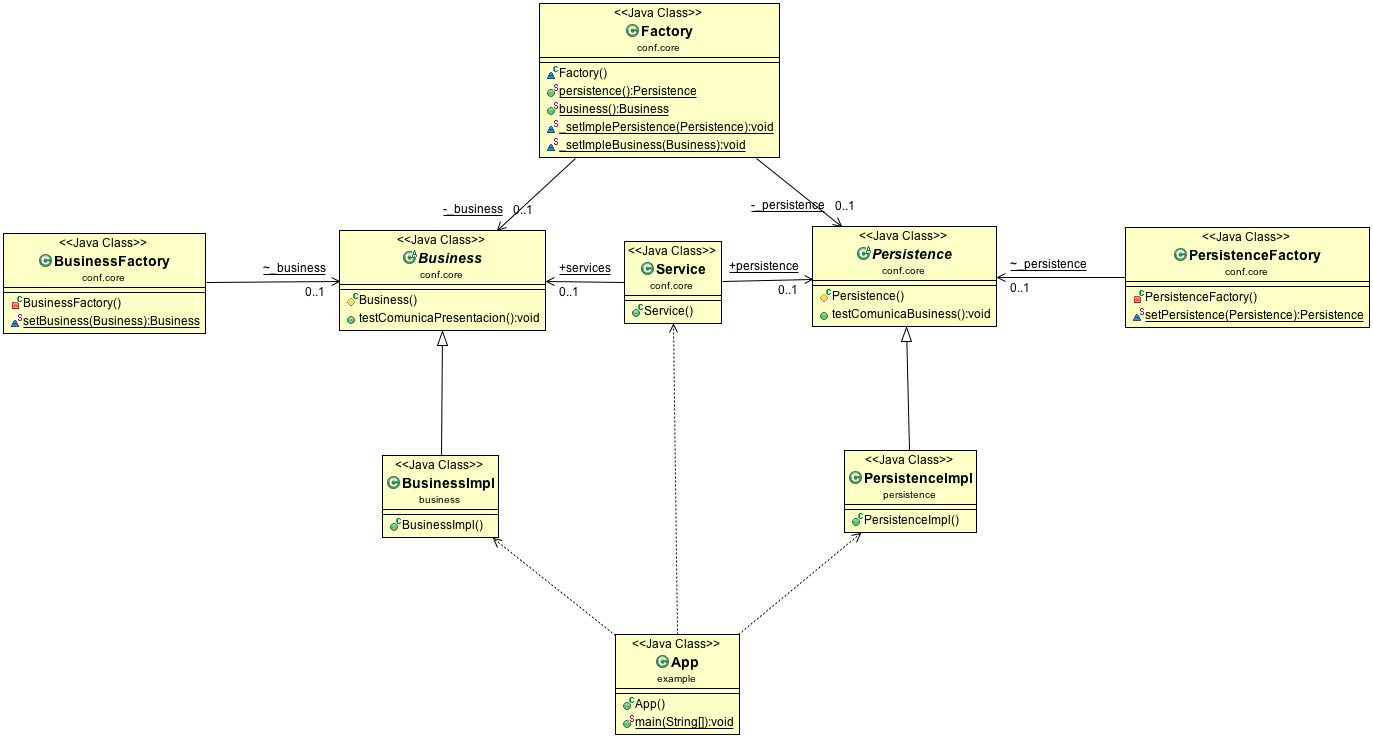
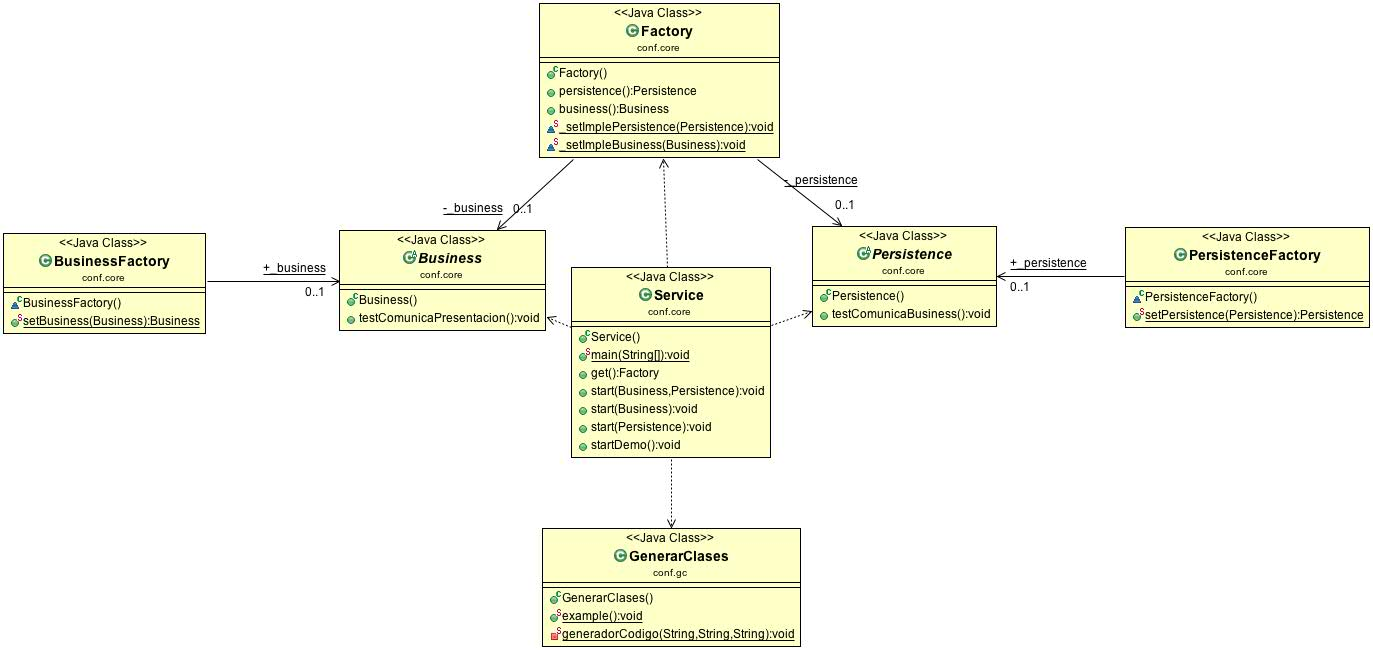
Modificado el ejemplo y las clases que se generan

diff --git a/Arq core/src/conf/gc/GeneradorCodigo.java b/Arq core/src/conf/gc/GeneradorCodigo.java
@@ -1,0 +1,89 @@
+package conf.gc;
+
+import java.io.File;
+import java.io.FileWriter;
+
+import conf.util.BusinessException;
+
+/**
+ * 
+ * GenerarCodigo encargada de generar las clases y paquetes demo
+ * 
+ * @author Francisco Javier Gil Gala
+ *
+ */
+public class GeneradorCodigo {
+
+	/**
+	 * Genera las clases demo BusinessImpl y PersistenceImpl y las guarda en los
+	 * paquetes Business y Persistence respectivamente.
+	 * 
+	 * @throws BusinessException
+	 */
+	public static void generarDemo() throws BusinessException {
+		String businessName = "BusinessImpl.java";
+		String businessBody = 
+				"package business;\n\n"
+				+ "import conf.core.Business;\n"
+				+ "import conf.core.Persistence;\n"
+				+ "import conf.core.Service;\n"
+				+ "import conf.util.BusinessException;\n"
+				+ "import persistence.PersistenceImpl;\n\n"
+				+ "public class BusinessImpl extends Business {\n\n"
+				+ "\t //clase autogenerada" + "\n"
+				+ "\t private PersistenceImpl p;\n\n"
+				+ "\t @Override\n"
+				+ "\t public Persistence getPersistence() throws BusinessException {\n"
+				+ "\t\tif (p == null)\n"
+				+ "\t\t\t p = (PersistenceImpl) new Service().get().persistence();\n"
+				+ "\t\t return p;\n"
+				+ "\t}\n}";
+		String businessUrl = "src/business/";
+		generadorPaquetes(businessUrl);
+		generadorCodigo(businessUrl, businessName, businessBody);
+
+		String persistenceName = "PersistenceImpl.java";
+		String persistenceBody = 
+				"package persistence;\n\n"
+				+ "import conf.core.Persistence;\n\n"
+				+ "public class PersistenceImpl extends Persistence {\n\n"
+				+ "\t //clase autogenerada"
+				+ "\n\n}";
+		String persistenceUrl = "src/persistence/";
+		generadorPaquetes(persistenceUrl);
+		generadorCodigo(persistenceUrl, persistenceName, persistenceBody);
+		System.out.println("Clases de prueba generadas correctamente");
+	}
+
+	/**
+	 * Genera la estructura clásica de paquetes: src.business, src.persistence,
+	 * src.model, src.gui
+	 */
+	public static void generarEstructuraPaquetes() {
+		generadorPaquetes("src/business");
+		generadorPaquetes("src/persistence");
+		generadorPaquetes("src/model");
+		generadorPaquetes("src/gui");
+	}
+
+	private static void generadorPaquetes(String url) {
+		File directorio = new File(url);
+		if (!directorio.exists()) {
+			System.out.println("-> Directorio no existe, generando directorio " + url);
+			directorio.mkdirs();
+		}
+	}
+
+	private static void generadorCodigo(String url, String name, String body) throws BusinessException {
+		try {
+			File archivo = new File(url + name);
+			if (!archivo.exists()) {
+				FileWriter escribir = new FileWriter(archivo, true);
+				escribir.write(body);
+				escribir.close();
+			}
+		} catch (Exception e) {
+			throw new BusinessException("Error al generar el código para la clase " + name);
+		}
+	}
+}

diff --git a/ExampleArqCore/src/business/BusinessImple.java b/ExampleArqCore/src/business/BusinessImple.java
@@ -3,6 +3,7 @@ package business;
 import java.util.List;
 
 import conf.core.Business;
+import conf.core.Persistence;
 import conf.core.Service;
 import conf.util.BusinessException;
 import model.Libro;
@@ -12,20 +13,24 @@ public class BusinessImple extends Business {
 
 	private PersistenceImple p;
 
+	@Override
+	public Persistence getPersistence() throws BusinessException {
+		if (p == null)
+			p = (PersistenceImple) new Service().get().persistence();
+		return p;
+	}
+
 	// se debe refactorizar todo
 	public void añadirLibro(String nombre) throws BusinessException {
-		p = (PersistenceImple) new Service().get().persistence();
-		p.guardarLibro(new Libro(nombre));
+		((PersistenceImple) getPersistence()).guardarLibro(new Libro(nombre));
 	}
 
 	public void borrarLibro(String nombre) throws BusinessException {
-		p = (PersistenceImple) new Service().get().persistence();
-		p.borrarLibro(new Libro(nombre));
+		((PersistenceImple) getPersistence()).borrarLibro(new Libro(nombre));
 	}
 
 	public List<Libro> listaLibros() throws BusinessException {
-		p = (PersistenceImple) new Service().get().persistence();
-		return p.cargarLibros();
+		return ((PersistenceImple) getPersistence()).cargarLibros();
 	}
 
 }

diff --git a/Arq core/src/conf/core/Service.java b/Arq core/src/conf/core/Service.java
@@ -1,6 +1,6 @@
 package conf.core;
 
-import conf.gc.GenerarClases;
+import conf.gc.GeneradorCodigo;
 import conf.util.BusinessException;
 
 /**
@@ -73,14 +73,11 @@ public class Service {
 	 * necesario refrescar el proyecto o volver a compilar para poder seguir con
 	 * la ejecución del programa.
 	 * 
-	 * @throws ClassNotFoundException
-	 * @throws InstantiationException
-	 * @throws IllegalAccessException
 	 * @throws BusinessException
 	 */
 	@SuppressWarnings("unchecked")
 	public void startDemo() throws BusinessException {
-		GenerarClases.example();
+		GeneradorCodigo.generarDemo();
 		Class<Business> business;
 		Class<Persistence> persistence;
 		try {

diff --git a/ExampleArqCore/src/gui/App.java b/ExampleArqCore/src/gui/App.java
@@ -33,8 +33,16 @@ public class App {
 		for (Libro l : libros)
 			System.out.println(l);
 
-		System.out.println("Añadiendo libro d");
+		System.out.println("Añadiendo libro D");
 		b.añadirLibro("D");
+
+		System.out.println("Listado de libros");
+		libros = b.listaLibros();
+		for (Libro l : libros)
+			System.out.println(l);
+
+		System.out.println("Borrando libro D");
+		b.borrarLibro("D");
 
 		System.out.println("Listado de libros");
 		libros = b.listaLibros();

diff --git a/Arq core/src/conf/core/Business.java b/Arq core/src/conf/core/Business.java
@@ -1,5 +1,7 @@
 package conf.core;
 
+import conf.util.BusinessException;
+
 /**
  * 
  * Business clase abstracta de la que se debe extender la funcionalidad para
@@ -12,8 +14,9 @@ public abstract class Business {
 
 	public Business() {
 		Factory._setImpleBusiness(this);
-		System.out.println("OK");
 	}
+
+	public abstract Persistence getPersistence() throws BusinessException;
 
 	/**
 	 * Método para comprobar el correcto funcionamiento del framework

diff --git a/ExampleArqCore/src/model/Libro.java b/ExampleArqCore/src/model/Libro.java
@@ -16,6 +16,11 @@ public class Libro {
 	public void setTitulo(String titulo) {
 		this.titulo = titulo;
 	}
+	
+	@Override
+	public boolean equals(Object obj) {
+		return titulo.equals(((Libro)obj).titulo);
+	}
 
 	@Override
 	public String toString() {
